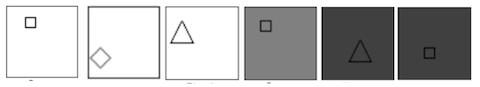
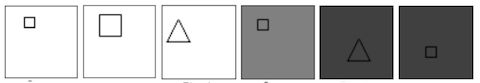
Use larger squares in the example

diff --git a/_posts/2021-04-10-machine-learning-but-not-understanding.md b/_posts/2021-04-10-machine-learning-but-not-understanding.md
@@ -56,7 +56,7 @@ In the next sections we will explore how neural networks lack the grasp of "rich
 
 {% newthought 'We will see how a neural network' %} trained to tell squares and triangles apart behaves.
 
-For human beings, the pictures below show squares and triangles. Some are upright, some are rotated, some are in a light background, some are in a darker background. But they are all clearly either a square or a triangle in a frame.
+For human beings, the pictures below show squares and triangles. Some are small, some are large, some are in a light background, some are in a darker background. But they are all clearly either a square or a triangle in a frame.
 
 {% maincolumn 'images/2021-04-10/squares-triangles.png' ''%}
 
@@ -75,7 +75,7 @@ This is how some of the training images look like. Each picture is a square or a
 
 {% maincolumn 'images/2021-04-10/output_12_0.png' ''%}
 
-## The "square vs. triangle" neural network
+## The "squares vs. triangles" neural network
 
 {% marginfigure 'mf-id-cnn' 'images/2021-04-10/cnn.png' 'Typical representation of a CNN. From the excellent _[Stanford CS231n: Convolutional Neural Networks for Visual Recognition](https://cs231n.github.io/convolutional-networks/)_ class.' %}
 
@@ -101,17 +101,17 @@ Despite the good accuracy, does the neural network understand the concept of wha
 
 ## When are squares not squares?
 
-When they are rotated. At least for this neural network.
+When they are larger. At least for this neural network.
 
-In this section we will use the neural network we just trained to classify a set of squares. But there is a twist to these squares: they are rotated by about 45 degreees.
+In this section we will use the neural network we just trained to classify a set of squares. But there is a twist to these squares: they are larger than the ones we used in the training set.
 
 This is how they look like.
 
 {% maincolumn 'images/2021-04-10/output_28_0.png' ''%}
 
-Using the neural network, we classify the rotated squares and calculate the accuracy, just like we did with the test set.
+Using the neural network, we classify the large squares and calculate the accuracy, just like we did with the test set.
 
-But this time, out of 80 rotated squares, only 23 of them are classified as squares. The other 57 are classified as triangles. The accuracy is now a paltry 26%.
+But this time, out of 77 large squares, only 43 of them are classified as squares. The other 34 are classified as triangles. With an accuracy of 55.8%, the neural network is barely better than flipping a coin.
 
 Below are all the squares in this set and how the neural network classified them. The ones with the red border were incorrectly classified as triangles (there are many of them).
 
@@ -119,7 +119,7 @@ Below are all the squares in this set and how the neural network classified them
 
 ## Why does this experiment matter?
 
-The simplest and fastest way to improve this neural network is to increase the size of the training and test sets. In this case, we should add rotated squares to the training set and retrain the neural network. It will very likely perform better.
+The simplest and fastest way to improve this neural network is to increase the size of the training and test sets. In this case, we should add larger squares to the training set and retrain the neural network. It will very likely perform better.
 
 But this does not address the fundamental problem: ***the neural network does not understand the concept of "square".***
 
